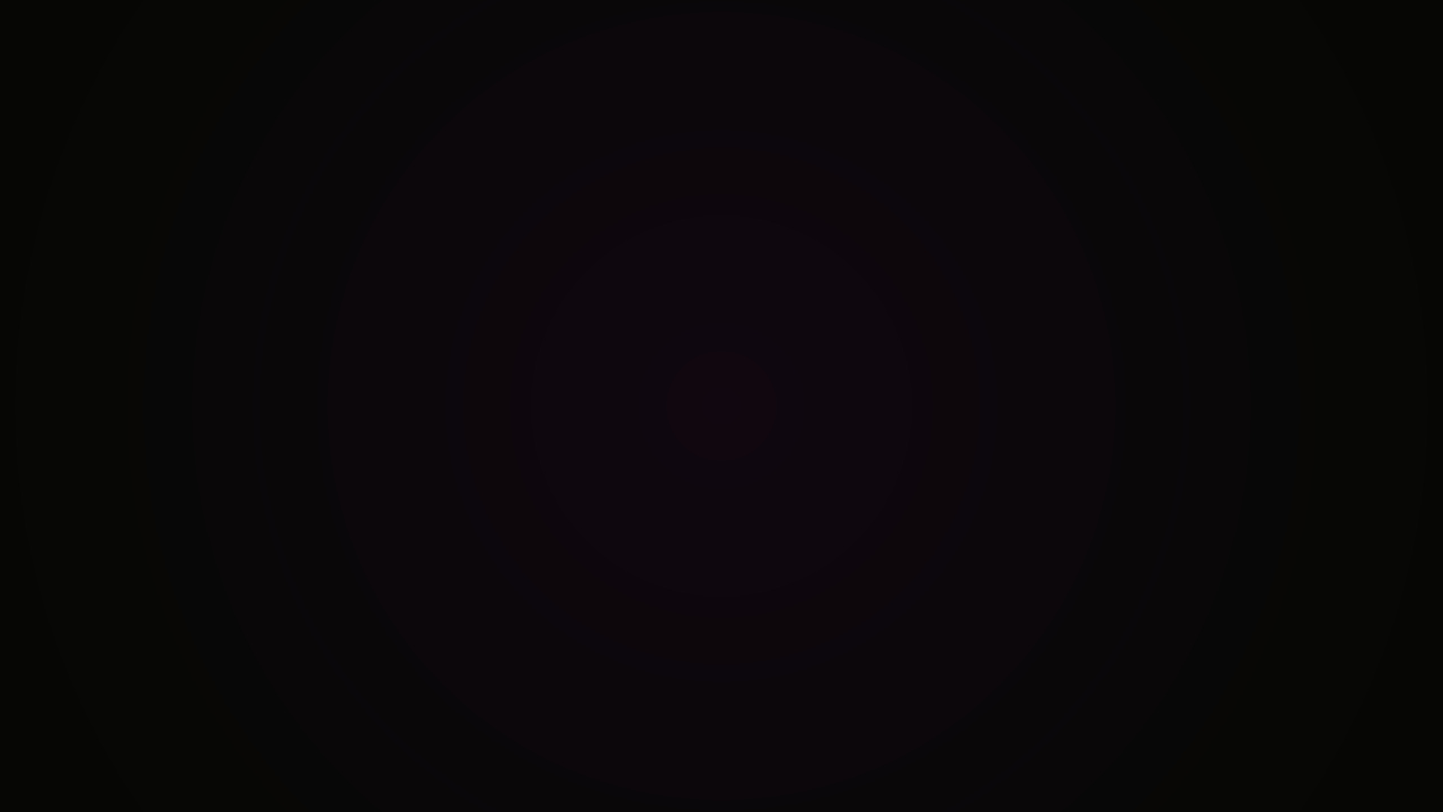
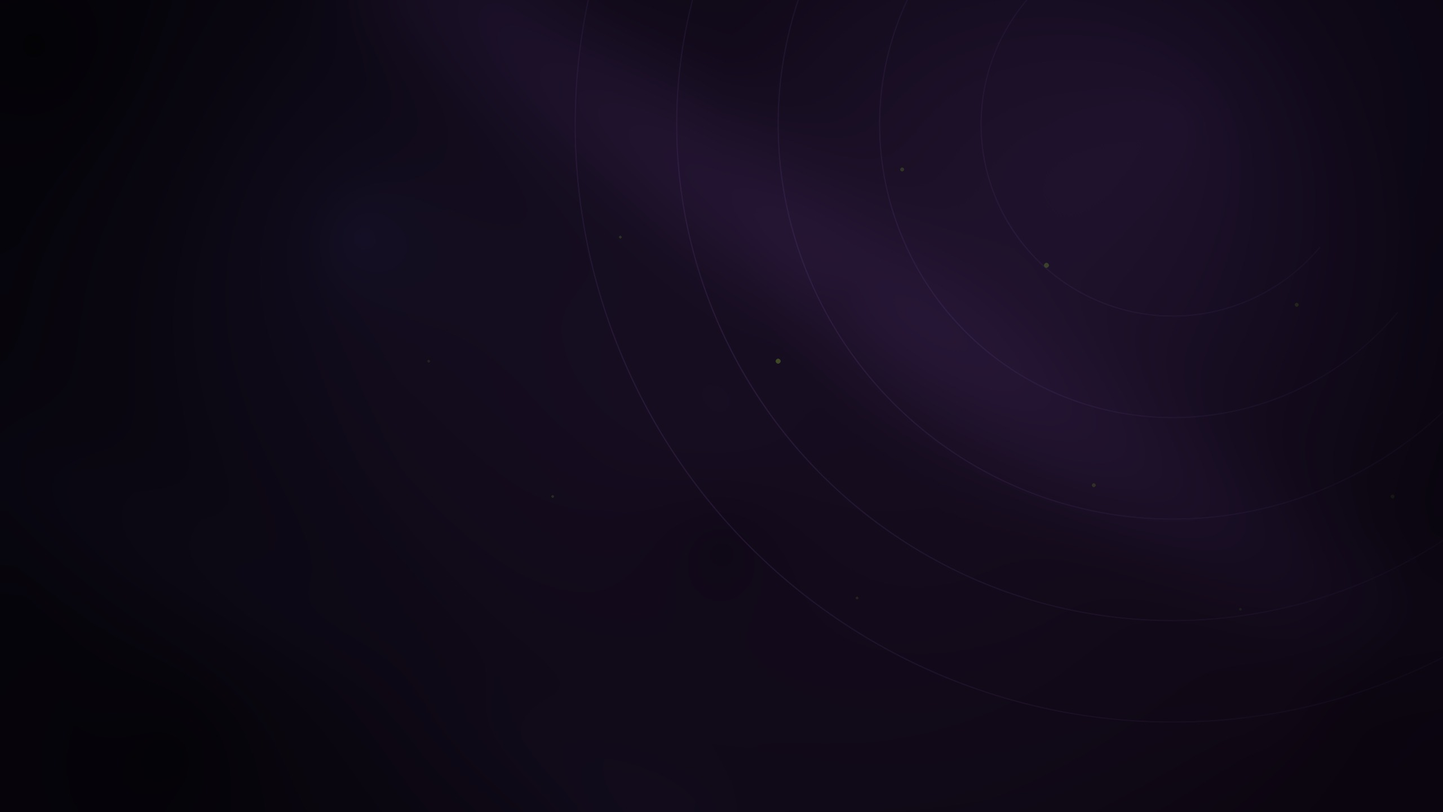
feat(grub): bake background from script, add vscode LICENSE and audit
- share/grub-theme/generate-background.sh: deterministic ImageMagick bake
  for background.jpg and thumb.jpg. Replaces the hand-made flat #07080A
  plate with an abstract digital wash in ghost lime's OKLCH complement
  (violet-purple, h~308deg): multi-point dark gradient, blurred diagonal
  beams, signal arcs and lime motes, vignetted to #07080A at the edges.
  Max luminance is capped at L~0.34 OKLab so glass overlays and labels
  keep contrast against it.
- Regenerate background.jpg/thumb.jpg and the simulator lime preset from
  the script so the committed assets match their generator.
- vscode: add MIT LICENSE and set publisher to johnrebellion (the old
  indigo-glass value is not a real marketplace publisher id).
- research-reports: add the lime-glass branch audit from 2026-07-14.

Changed region(s): [[0.2812, 0.0, 0.9375, 0.75], [0.2188, 0.25, 0.2812, 0.3125]]

diff --git a/research-reports/lime-glass-branch-audit-2026-07-14.md b/research-reports/lime-glass-branch-audit-2026-07-14.md
@@ -1,0 +1,246 @@
+# Lime Glass Branch Audit — `feat/lime-glass-variant`
+
+**Date:** 2026-07-14
+**Scope:** All 21 commits on `feat/lime-glass-variant` vs `main` (242 files, +3233/−801), plus the uncommitted working-tree change.
+**Method:** Manual review of `tokens/codegen.py` + `tokens/indigo-glass.tokens.toml`, independent recomputation of all OKLCH/contrast claims, `codegen.py --check`, and three parallel review passes (shell scripts, docs/naming, token propagation).
+
+---
+
+## Executive summary
+
+**The token pipeline core is sound and its intent is correct — but the branch delivers that intent only about halfway.** The stated goal (Lime Glass as default variant, Indigo Glass preserved as a selectable variant, single OKLCH source of truth) is fully realized in `tokens/`, KDE color schemes, GRUB theme, VSCode dark theme, and the simulator. Downstream of that, the branch performed a **mass rename without recolor**: ~14 layers now claim "Lime Glass" in their names/headers while still shipping indigo hex values. Additionally there is one real accessibility bug in the *generated shipping default* (illegible selected text in KDE), and the GRUB deploy path writes boot-critical config non-atomically with no validation.
+
+| Severity | Count |
+|----------|-------|
+| CRITICAL (label lies to user / illegible UI) | 2 classes (A1, B*) |
+| HIGH | 5 |
+| MEDIUM | 9 |
+| LOW / polish | 8 |
+
+**Recommended execution order:** Section A (codegen fixes) → Section B (recolor-or-retitle decision per layer) → Section C (GRUB hardening) → Section D (docs). Each finding below has a concrete fix and a verification step.
+
+---
+
+## A. Generated-output bugs (fix in codegen/TOML, then regenerate)
+
+### A1. HIGH — Selected text illegible in shipping KDE palette (white on lime, 1.50:1)
+
+- **File:** `tokens/codegen.py:385` (emitter), affects `tokens/out/kde-palette.colors` and `tokens/out/kde-palette.lime.colors` (`[Colors:Selection] ForegroundNormal=255,255,255`, `ForegroundActive=248,248,248`)
+- **Problem:** Selection foreground is hardcoded white. On indigo selection (#5E6AD2) that is 4.70:1 (fine). On lime selection (#A8E635) it is **1.50:1 — unreadable**. This ships in the default variant.
+- **Verified math:** white on #A8E635 = 1.50:1; base #07080A on #A8E635 = 13.39:1.
+- **Fix:** In `emit_kde_colors`, compute the selection foreground per variant by WCAG contrast: use `p['base']` (or `#000000`-side pick) when the accent is light, white when the accent is dark. Simplest robust rule: compute relative luminance of `accent`; if contrast(white, accent) < 4.5, use `base` for both `ForegroundNormal` and `ForegroundActive` in `[Colors:Selection]`. Apply the same guard anywhere text sits on `accent` (check `emit_wt_scheme` `selectionBackground` interaction — see A6).
+- **Verify:** regenerate; `grep -A4 'Colors:Selection' tokens/out/kde-palette.lime.colors` shows `7,8,10` (or similar dark) foreground; indigo file still shows `255,255,255`.
+
+### A2. MEDIUM — Hardcoded indigo glow leaks into lime outputs
+
+- **Files:** `tokens/indigo-glass.tokens.toml:203-204` (`indigo_glow = "0 0 0 2px rgba(94,106,210,0.30)"`, `indigo_glow_lg = "... rgba(94,106,210,0.40)"`) in the variant-agnostic `[shadow]` table → emitted into `tokens/out/css-vars.lime.css:87-88`, `tokens/out/css-vars.css:87-88`, and synced `simulator/src/lib/styles/tokens.css:87-88`.
+- **Problem:** The lime default ships `--ig-shadow-indigo-glow` containing literal indigo rgba — violates the repo's own single-accent rule ("Do NOT hardcode hex", TOML header). Impact is latent today (no downstream file consumes the var; `glass.css:126-127` overrides it to `none` under `[data-reduce-bright]` only), but any consumer loading `css-vars.css` without `glass.css` gets an indigo focus ring in the lime theme.
+- **Fix:** Rename tokens to `accent_glow`/`accent_glow_lg` and derive the rgba from the active variant's `accent` in codegen (same pattern as glass tint at `codegen.py:525-528`). Keep `--ig-shadow-indigo-glow` emitted as an alias for back-compat if desired (mirror `_BRAND_ALIAS`). Update the `[data-reduce-bright]` override names in `emit_glass_css` (`codegen.py:717-718`) and `README.md:150` (`.glow-indigo` utilities).
+- **Verify:** `grep -n '94,106,210' tokens/out/css-vars.lime.css` returns nothing; the indigo variant file still carries indigo rgba.
+
+### A3. LOW — Uncommitted regenerated `json-tokens.json`
+
+- **File:** `tokens/out/json-tokens.json` (working tree) — adds `"force_contrast_params": false`.
+- **Problem:** Regen output from commit `0604706` was left uncommitted. `codegen.py --check` passes with the working-tree state, so it is correct — just missed.
+- **Fix:** Commit as `chore(tokens): commit regenerated json-tokens.json (force_contrast_params)`. (If A1/A2 are done first, it will be swept up in that regen commit anyway.)
+
+### A4. LOW — `accent_alt` comment hex is wrong by one
+
+- **File:** `tokens/indigo-glass.tokens.toml:74` — comment claims `#8BC407`; codegen actually derives **#8BC406** from oklch(0.7523 0.1947 127.71).
+- **Risk:** Anyone hand-porting the palette from the comment (which is exactly what the Section B recolor work will do) introduces a 1-bit mismatch vs generated outputs.
+- **Fix:** Correct the comment to `#8BC406`. **Rule for Section B executors: always copy hex from `tokens/out/css-vars.lime.css`, never from TOML comments.**
+
+### A5. LOW — `accent_hi` is out of sRGB gamut (channel-clipped)
+
+- **File:** `tokens/indigo-glass.tokens.toml:73` — oklch(0.9323 0.2049 127.71) has linear green = 1.019 before clipping.
+- **Impact:** `oklch_to_hex` channel-clips (slight hue/lightness distortion vs the authored value), and the P3 emission preserves the extra chroma, so `--ig-accent-hi` renders **visibly more saturated on P3 monitors than on sRGB**. May be desired ("more chroma on capable monitors" is the stated P3 intent), but this is the only palette entry where sRGB and P3 diverge from *clipping* rather than gamut mapping.
+- **Fix (optional):** Reduce C to ~0.19 at L=0.9323 to bring it just inside sRGB, or accept and document. Decision call for John.
+
+### A6. LOW — Sibling on-accent contrast risks (audit when fixing A1)
+
+- `tokens/out/wt-scheme.json` sets `selectionBackground: #A8E635`; Windows Terminal blends selection, but light-on-lime cells may be low contrast. Visual check after install.
+- `emit_kde_colors` also puts `accent_hi` (#C1FF58, even lighter) as `BackgroundAlternate` in `[Colors:Selection]` — same white-foreground problem as A1; the A1 fix covers it.
+
+### A7. LOW — P3 overlay only upgrades legacy var names
+
+- **File:** `tokens/codegen.py:285` — the `@media (color-gamut: p3)` block emits only `indigo, indigo_hi, violet, amber, positive, negative`. The semantic names (`--ig-accent`, `--ig-accent-hi`, `--ig-accent-alt`) and `lime*` aliases never get the P3 upgrade (they stop at the oklch() tier, which browsers gamut-map themselves — acceptable, but inconsistent).
+- **Fix:** Emit the P3 block over `("accent", "accent_hi", "accent_alt", "amber", "positive", "negative")` plus their aliases (iterate `_BRAND_ALIAS`).
+
+### A8. LOW — `text_muted` below AA for body text
+
+- #6B7280 = 4.14:1 on base (#07080A), 3.87:1 on surface_alt (#121216). Fails AA 4.5:1 for normal text; passes AA-large (3:1).
+- **Fix (decision):** Either lighten `text_muted` (e.g. L≈0.60 gives ~5:1) or document that muted text is caption/large-only. Same value fails similarly in the indigo variant (pre-existing), so this is a system-wide call, not a branch regression.
+
+---
+
+## B. Rename-without-recolor — layers claiming Lime, rendering indigo
+
+**This is the branch's largest defect class.** The rename pass updated names/headers/`@name` fields but not colors. Every file below is *default-applying* (no lime counterpart exists). For each: **decide recolor vs retitle-back-to-Indigo** — the current state (label says Lime, pixels say indigo) is the worst of both.
+
+**Recolor source of truth:** `tokens/out/css-vars.lime.css`. Key values: accent `#A8E635`, accent_hi `#C1FF58`, accent_alt `#8BC406`, base `#07080A`, surface `#0D0D10`, surface_alt `#121216`, sidebar `#0A0A0D`, text `#F8F8F8`, text_muted `#6B7280`. Old indigo values to hunt: `#5E6AD2`, `#818CF8`, `#A78BFA`, `#0F0F12`, `#1C1C21`, `#1F2028`, `#18181C` (case-insensitive; also `rgba(94,106,210,…)`, `dword:ff5e6ad2`, `168,230,53`-style RGB triplets for the KDE-ish formats).
+
+### B1. Installed by default by the install scripts — fix first
+
+| # | File | Evidence | Installed by |
+|---|------|----------|--------------|
+| B1a | `config/starship.toml` | 18 old hexes (lines 5-85: `indigo = '#5E6AD2'`, `bg_0 = '#0F0F12'`…); header says "Lime Glass" | `scripts/install.sh:190` |
+| B1b | `config/fastfetch/config.jsonc` | lines 6, 11-12, 21: `#818CF8`/`#A78BFA` | `scripts/install.sh:191` |
+| B1c | `windows/terminal/indigo-glass.scheme.json` | `"name": "Lime Glass"` with full indigo palette (bg `#0F0F12`, blue `#5E6AD2`). **Name-collides with the correct `tokens/out/wt-scheme.json`** — whichever installs last wins. | `windows/install.ps1:243-251` (sets it as default profile's colorScheme) |
+| B1d | `windows/registry/indigo-glass-accent.reg` | line 3 comment: "Lime Glass — Windows 11 accent color #5E6AD2"; `AccentColor=dword:ff5e6ad2` (lines 11-13, 20, 31-32) | `windows/install.ps1` / README instructions |
+| B1e | `windows/powershell/Microsoft.PowerShell_profile.ps1` | lines 29-37 PSReadLine colors `#818CF8/#A78BFA/#5E6AD2` | `windows/install.ps1` |
+
+**Fix for B1c specifically:** replace file contents with `tokens/out/wt-scheme.lime.json`, or better, make `install.ps1` read `tokens/out/wt-scheme.json` directly (which `tokens/README.md:60` already *claims* it does — see D3).
+
+### B2. User-activated layers (renamed + version-bumped, still indigo)
+
+| # | File | Evidence |
+|---|------|----------|
+| B2a | `vscode/themes/indigo-glass-light.json` + `vscode/package.json:26` | Only line 2 changed (`"name": "Lime Glass Light"`); 89 indigo hexes, 0 lime (`focusBorder: #5E6AD2` at line 6). The **dark** theme was properly recolored (115 lime, 0 indigo) — light was skipped. |
+| B2b | `browser/stylus/sites/claude-ai.user.css:16-31`, `notion.user.css:16-30`, `linear.user.css:16-29`, `chatgpt.user.css` | `@name` renamed + version bumped 0.2.0→0.3.0, colors untouched. These feed `sync-browser-theme.sh`. (The *universal* `browser/stylus/indigo-glass.user.css` **was** recolored — only the 4 site styles are stale.) |
+| B2c | `vencord/indigo-glass.theme.css:2-3,11-17` | `@name Lime Glass`, body indigo (`--ig-indigo: #5E6AD2`, base `#0F0F12`) |
+| B2d | `spicetify/Themes/indigo-glass/color.ini:8-39` + `user.css` | header "Lime Glass", both sections indigo |
+| B2e | `obsidian/Indigo Glass/theme.css:9-40` | header renamed, 19 indigo hexes; `obsidian/README.md:1-3` claims "Same palette as VSCode/KDE" — false |
+| B2f | `jetbrains/Indigo Glass.icls` | `<scheme name="Lime Glass">` with 36 old hexes |
+| B2g | `sddm/indigo-glass/Main.qml:13-16` + `background.svg:7-9` + `metadata.desktop:2` | Login screen `Name=Lime Glass`, `accent: "#5E6AD2"`, indigo glow background |
+| B2h | `cursor/build-bibata.sh:31-33,100` | `ACCENT="#5E6AD2"` with comment "(Lime Glass primary)" — factually wrong; `cursor/out/Bibata-IndigoGlass/` is the stale build output (rebuild after fix) |
+
+### B3. Simulator internal disagreement (MEDIUM)
+
+`simulator/src/lib/styles/tokens.css` and `glass.css` are byte-identical to lime canonical outputs (correct), but these hand-carry indigo:
+- `simulator/src/lib/styles/mesh.css` (5 hits), `liquid-glass.css` (2), `simulator/src/lib/components/GrubScreen.svelte` (5), `simulator/src/routes/vscode/+page.svelte` (2 indigo / 2 lime mixed)
+- `assets/liquid-glass/liquid-glass.css`, `assets/mesh/mesh-gradient.css`
+
+The 2026-refresh preview disagrees with itself. Recolor these (or better: make them consume `var(--ig-accent)` etc. so this class of bug dies).
+
+### B4. Konsole profile identity inversion (MEDIUM)
+
+- `share/konsole/IndigoGlass.profile:2,16` — `Name=IndigoGlass` but `ColorScheme=LimeGlass`, plus indigo-era violet cursor `CustomCursorColor=167,139,250` on a lime scheme. **There is no `LimeGlass.profile` at all.** Installed as-is by `scripts/install.sh:180`; also sed-targeted by `hosts/apply.sh:113-115`.
+- **Fix:** Create `share/konsole/LimeGlass.profile` (`Name=LimeGlass`, `ColorScheme=LimeGlass`, lime-appropriate cursor e.g. `168,230,53`), restore `IndigoGlass.profile` to `ColorScheme=IndigoGlass` + violet cursor, update `scripts/install.sh:180` and its "Next steps" echo (line ~283), and `hosts/apply.sh:113-115` to target the lime profile.
+
+### B5. Stale hand-merged KDE scheme (MEDIUM)
+
+- `share/color-schemes/LimeGlass.colors` — the file `install.sh:176` actually installs — diverges from the generated partial `tokens/out/kde-palette.lime.colors` on real values: `activeBlend=18,18,22` vs generated `168,230,53`; `activeBackground=18,18,22` vs `13,13,16`; `inactiveBackground=13,13,16` vs `10,10,13`; `ForegroundLink=139,196,6` vs `193,255,88`; Button `BackgroundAlternate=42,46,58` vs `13,13,16`.
+- Also: display-name mismatch — shipped `Name=Lime Glass` (line 121) vs generated `Name=LimeGlass` (`codegen.py:359` strips spaces). Blind-merging the partial would silently change the display name.
+- **Fix:** Re-merge the generated partial into `LimeGlass.colors` **after** the A1 fix lands (so the selection fix propagates). Decide the canonical display name (space or no space) and make `codegen.py:359` match; keep `plasma-apply-colorscheme` id stable. Where the hand-file intentionally differs (e.g. `activeBlend` for titlebar tinting), either port the intent into codegen or comment the deliberate divergence in the file.
+
+### B6. LOW — Packaged old artifact
+
+- `iso/boot/grub/themes/indigo-glass/theme.txt` header still "Indigo Glass" (inside `indigo-grub.iso` source tree) — packaged artifact of the old build; regenerate the ISO or leave with a note.
+
+---
+
+## C. Script safety (GRUB = highest blast radius; area already churned 3 fix commits)
+
+### C1. HIGH — `install.sh --with-grub` never writes GRUB_FONT (silent text-mode fallback)
+
+- **Files:** `scripts/install.sh:243-247` vs `scripts/sync-grub-parity.sh:126` (and its comment at 121-123)
+- **Problem:** Commit `bc75096` claims "sync GRUB_FONT alongside GRUB_THEME/BACKGROUND on --deploy" — only `sync-grub-parity.sh` was fixed. `install.sh`'s own GRUB path writes `GRUB_THEME`/`GRUB_BACKGROUND` but never `GRUB_FONT`; a stale/missing font breaks the `if loadfont` guard in `/etc/grub.d/00_header`, silently disabling gfxterm — theme never loads for `install.sh --with-grub` users. Two install paths for the same artifact, one fixed.
+- **Fix (preferred):** Delete the duplicated GRUB logic from `install.sh` and have `--with-grub` shell out to `sync-grub-parity.sh --deploy`. (Alternative: copy the GRUB_FONT block over — but the duplication is the root cause; see also C3.)
+- **Verify:** after `install.sh --with-grub --dry-run`, the planned edits include `GRUB_FONT`.
+
+### C2. HIGH — `grub2-mkconfig` writes the live grub.cfg non-atomically, unvalidated
+
+- **Files:** `scripts/sync-grub-parity.sh:126-147`, `scripts/install.sh:242-260`
+- **Problem:** Both scripts sed-patch `/etc/default/grub` then run `grub2-mkconfig -o <live grub.cfg>` directly. No `grub2-script-check`, no non-empty check, no backup of grub.cfg itself (only `/etc/default/grub` is backed up), no temp-file + atomic rename. An interrupted run (disk full, kill) leaves a truncated boot config; a bad theme reference passes mkconfig silently and only fails at boot.
+- **Fix:** `grub2-mkconfig -o "${cfg}.new"` → verify non-empty and `grub2-script-check "${cfg}.new"` (fall back to `grub-script-check` if the un-prefixed tool exists) → `cp -a "$cfg" "${cfg}.bak-$STAMP"` → `mv "${cfg}.new" "$cfg"`. Apply in both scripts (or just in `sync-grub-parity.sh` once C1 unifies them).
+
+### C3. MEDIUM — `install.sh` GRUB edit pattern is inconsistent with the newer script
+
+- **File:** `scripts/install.sh:243-246` — unconditional `sed -i` followed by a separate `grep -q` check-then-append; in `--dry-run` the grep reads live system state and can mis-report. `sync-grub-parity.sh:126-133` already has the clean `if grep -q then sed else append` pattern.
+- **Fix:** Made moot by C1's unification; otherwise adopt the parity-script pattern.
+
+### C4. MEDIUM — `sync-browser-theme.sh` non-atomic backup→copy window
+
+- **File:** `scripts/sync-browser-theme.sh:67-74` — `mv "$dst" "${dst}.bak-$STAMP"` then `cp -a "$src" "$dst"`; a kill between/during leaves the extension-settings dir missing (silent settings loss, not corruption — the Edge-running guard at 51-53 is good).
+- **Fix:** copy to `"${dst}.tmp-$STAMP"` first, then swap: `mv "$dst" "$dst.bak-$STAMP" && mv "$dst.tmp-$STAMP" "$dst"`.
+
+### C5. MEDIUM — Edge-running check has a TOCTOU gap
+
+- **File:** `scripts/sync-browser-theme.sh:51-53` — single `pgrep` at start; nothing prevents Edge launching mid-apply, and no lock against concurrent script runs.
+- **Fix:** re-check `pgrep` immediately before each profile's copy; optionally `flock` a sentinel for the apply loop.
+
+### C6. MEDIUM — systemd unit hardcodes the author's clone path
+
+- **Files:** `vscode/systemd/indigo-glass-vscode-patch.service` (`ExecStart=/bin/bash %h/projects/indigo-glass/...`), installed verbatim by `vscode/systemd/install.sh:30` which *knows* the real repo root and doesn't template it.
+- **Fix:** have `vscode/systemd/install.sh` sed the actual repo path into the unit at install time.
+
+### C7. LOW — `eval "$@"` run-helper pattern
+
+- **Files:** `scripts/install.sh:35-40`, `scripts/sync-grub-parity.sh:42-51` — safe with current controlled inputs; fragile for paths with spaces/metacharacters.
+- **Fix (optional):** array-based direct exec, or document the constraint.
+
+### What the scripts do well (keep)
+
+- `sync-browser-theme.sh`: dry-run-by-default, per-target timestamped backups, double `pgrep` guard, Personal-profile-as-read-only-source. Reference implementation for the others.
+- `sudo test -f` for grub.cfg detection (correct vs Fedora/Nobara `0700 /boot/grub2`); graceful degradation on missing paths.
+- `windows/install.ps1`: backs up every mutated file (`*.before-indigo-glass`), genuine `-DryRun` threaded through all stages.
+- The KDE/Konsole scheme-name collision fix (`7307563`) is complete and verified.
+
+---
+
+## D. Documentation drift
+
+### D1. HIGH — Root `README.md` still documents indigo as the system
+
+- Lines 27-44: Color palette section is 100% indigo (`Indigo #5E6AD2 Linear primary`) — no `#A8E635`/`#07080A`.
+- Lines 54, 60: "Near-black `#0F0F12`", "One primary accent (`#5E6AD2` indigo)".
+- Lines 15-20: layer list says "IndigoGlass color scheme", "violet cursor", "amber-on-indigo GRUB theme".
+- Line 89: "Patches kdeglobals with IndigoGlass scheme" — `install.sh:201` actually writes `ColorScheme=LimeGlass`.
+- Lines 127-129: manual-integration table omits `LimeGlass.colors`/`LimeGlass.colorscheme`.
+- **Nothing anywhere documents that variants exist or how to select Indigo** — the single most important doc gap given the branch's intent.
+- **Fix:** rewrite palette + accent-rules sections with lime values; add a "Variants" section (lime default, indigo heritage, how to switch: which files/`default_variant` in TOML + regen, per-layer variant files).
+
+### D2. HIGH — `docs/REFERENCE.md` and `docs/PHILOSOPHY.md` contradict the rebrand
+
+- `REFERENCE.md`: title says Lime (`:1`), body is entirely indigo — `:16-21` core formula, `:25-62` "canonical palette", `:74,87-88` scheme/profile names, `:225-227` self-contradictory snippet (`ColorScheme=IndigoGlass` + `Name=Lime Glass`), `:507,705,710-712` `plasma-apply-colorscheme IndigoGlass`, `:744` Edge accent `#5E6AD2`, `:793-811` indigo Tailwind block. Either rewrite with lime values (+ "values are per-variant" note) or banner it as the Indigo-variant reference.
+- `PHILOSOPHY.md`: naming section rewritten correctly (`:149-157`), but `:67-93` "Color reasoning" argues only why indigo is *the* accent, and `:129` "Constraint discipline: `#5E6AD2` is the ONLY decorative accent" directly contradicts `:150` "single ghost-lime `#A8E635` … brand signature". Reframe color reasoning per-variant; the lime rationale already exists in the TOML comments (lines 63-66) — lift it into the doc.
+- `docs/DENSITY.md:93`: "the indigo tint reads through" → "accent tint" (one-word fix).
+
+### D3. MEDIUM — Tokens pipeline docs describe schema v2 / `[palette.oklch]` (gone)
+
+- `tokens/indigo-glass.tokens.toml:6` header "Schema version: 2" vs `:17` `schema_version = 3`; `:12-14` v2 note names `[palette.oklch]` as source.
+- `tokens/indigo-glass.tokens.toml:62-63` — direct contradiction: "lime-tinted near-black; hue ~120" vs "NEUTRAL deep near-black (NOT lime-tinted)". Line 62 is stale (actual hues 262-286) — delete it.
+- `tokens/README.md:5,15,79-81` — same v2/`[palette.oklch]` staleness; files table (`:13-23`) omits all per-variant outputs; `:58` "merged into IndigoGlass.colors"; `:60` claims `wt-scheme.json` is "auto-injected by windows/install.ps1" — **false**, install.ps1 reads `windows/terminal/indigo-glass.scheme.json` (root cause of B1c); `:71` "indigo tint" → accent tint.
+- `tokens/codegen.py:2-18` module docstring — "schema v2", `[palette.oklch]`, output list omits per-variant files; contradicts its own machinery at `:124-161`, `:809-826`.
+- `tokens/indigo-glass.tokens.toml:345-356` `[ambient]` comment "MUST use the existing indigo/violet hues only" — functionally fine (aliases resolve per-variant) but reads as "orbs are always indigo"; reword to accent/accent_alt.
+
+### D4. MEDIUM — Sub-READMEs document the artifact they no longer ship
+
+- `vscode/README.md:13-31` palette table is indigo while the shipped dark theme is lime; also verify `:65` bracket rotation and `:147` claims against the lime theme.
+- `browser/README.md:40-42` "what it paints" table is indigo; the universal userstyle actually paints lime `rgba(168,230,53,0.45)`.
+- `browser/monkeytype/README.md:1-13` "canonical Lime Glass palette" followed by an indigo table; the JSON is lime.
+- `share/grub-theme/README.md:12-13,26,34-35` — indigo prose next to a fully-lime `theme.txt`.
+- `jetbrains/README.md`, `obsidian/README.md`, `spicetify/README.md`, `windows/README.md:103` — Lime titles over indigo bodies (resolve together with the B2 recolor-vs-retitle decision per layer).
+
+---
+
+## E. Verified-correct claims (no action — recorded so Opus doesn't re-litigate)
+
+- `codegen.py --check` exits 0 against the working tree.
+- Lime accent #A8E635 on base #07080A = **13.39:1** (TOML claim exact); the "vs 12.79:1" is the same accent on the old #0F0F12 base — comparison is honest.
+- All OKLCH→hex round trips match TOML comments except A4 (#8BC406 vs #8BC407).
+- KWin fix (`0604706`): `ForceContrastParams=false` + neutral Brightness/Saturation/Contrast=100 emitted correctly; browser Dark Reader keeps the canonical 96/110 values independently, as the comments state.
+- `_BRAND_ALIAS` legacy-key aliasing (`indigo`→active accent, `violet`→accent_alt) is intentional back-compat, not a bug; `[ambient] orb_primary = "indigo"` resolves to lime correctly.
+- Scheme names are distinct everywhere in generated outputs: `LimeGlass`/`Lime Glass` vs `IndigoGlass`/`Indigo Glass` in KDE + WT files.
+- `simulator/src/lib/styles/tokens.css` and `glass.css` are byte-identical to canonical generated outputs.
+- Hand-maintained but currently in-sync (LOW drift risk, no action): `config/gtk-3.0/gtk.css`, `config/gtk-4.0/gtk.css`, `browser/darkreader/indigo-glass.json`, `browser/monkeytype/indigo-glass.json`, `browser/stylus/indigo-glass.user.css` (universal), `vscode/css/claude-code-indigo.css`, `share/grub-theme/theme.txt`, `share/konsole/LimeGlass.colorscheme`.
+
+---
+
+## Execution checklist (suggested commit sequence)
+
+1. [ ] **A1** selection foreground contrast logic in `emit_kde_colors` + regen → `fix(tokens): contrast-safe selection foreground per variant`
+2. [ ] **A2 + A4 + A7 + D3-docstrings** glow derivation, comment fixes, P3 key set, schema-v3 docstrings + regen (sweeps **A3**) → `fix(tokens): derive accent glow per variant; schema v3 doc pass`
+3. [ ] **B5** re-merge generated partial into `share/color-schemes/LimeGlass.colors`; settle `Name=` spacing → `fix(kde): sync LimeGlass.colors with generated partial`
+4. [ ] **B4** add `LimeGlass.profile`, restore `IndigoGlass.profile`, update `install.sh` + `hosts/apply.sh` → `fix(konsole): proper per-variant profiles`
+5. [ ] **B1a-e** recolor default-installed configs from `tokens/out/css-vars.lime.css` → `fix(config,windows): lime recolor for default-installed layers`
+6. [ ] **B2a-h** per-layer decision: recolor or retitle back to Indigo (do B2c/B2d/B2e/B2f as a batch; B2g SDDM needs the SVG regenerated; B2h rebuild cursor) → one commit per layer or one `fix: complete lime recolor across user-activated layers`
+7. [ ] **B3** simulator mesh/liquid-glass/GrubScreen recolor (prefer `var(--ig-*)` consumption) → `fix(sim): lime across mesh/liquid-glass; consume tokens`
+8. [ ] **C1 + C2 (+C3)** unify GRUB paths, atomic validated mkconfig → `fix(grub): unify deploy path; atomic validated grub.cfg writes`
+9. [ ] **C4 + C5** browser-sync atomic swap + re-check → `fix(scripts): atomic profile swap in sync-browser-theme`
+10. [ ] **C6** template systemd unit path → `fix(vscode): template repo path into systemd unit`
+11. [ ] **D1 + D2** README + REFERENCE/PHILOSOPHY rewrite incl. Variants section → `docs: lime-default rewrite + variant selection guide`
+12. [ ] **D4** sub-README tables → `docs: sync layer READMEs with shipped artifacts`
+13. [ ] Decisions to make (no code until decided): **A5** (accent_hi gamut), **A8** (text_muted AA), B2 recolor-vs-retitle per layer, B6 (ISO artifact).
+
+After each codegen-touching step: `python3 tokens/codegen.py && python3 tokens/codegen.py --check` and re-diff `simulator/src/lib/styles/{tokens,glass}.css` against `tokens/out/`.

diff --git a/share/grub-theme/README.md b/share/grub-theme/README.md
@@ -33,7 +33,8 @@ Dashboard view (Compot-inspired):
 ## Contents
 
 - `theme.txt` — GRUB theme definition (multi-line, no `N+N` math, no inline blocks)
-- `background.jpg` — deep `#07080A` w/ lime glow center
+- `background.jpg` — abstract digital wash in ghost lime's OKLCH complement (violet-purple, h≈308°): dark multi-point gradient, blurred diagonal beams, signal arcs + lime motes, vignetted to `#07080A` edges. Max luminance capped (L≈0.34 OKLab) so glass overlays and labels keep contrast. Baked by `generate-background.sh`.
+- `generate-background.sh` — deterministic ImageMagick bake for `background.jpg` + `thumb.jpg`
 - `assets/card_entries.png`, `card_timeout.png`, `card_default.png` — pre-baked stat cards w/ text+borders
 - `assets/select_w.png`, `select_c.png`, `select_e.png` — 3-slice selection pill (glow + accent left-bar + Press Enter chip baked in)
 - `assets/progress_bar_*.png`, `progress_highlight_*.png` — top-edge progress
